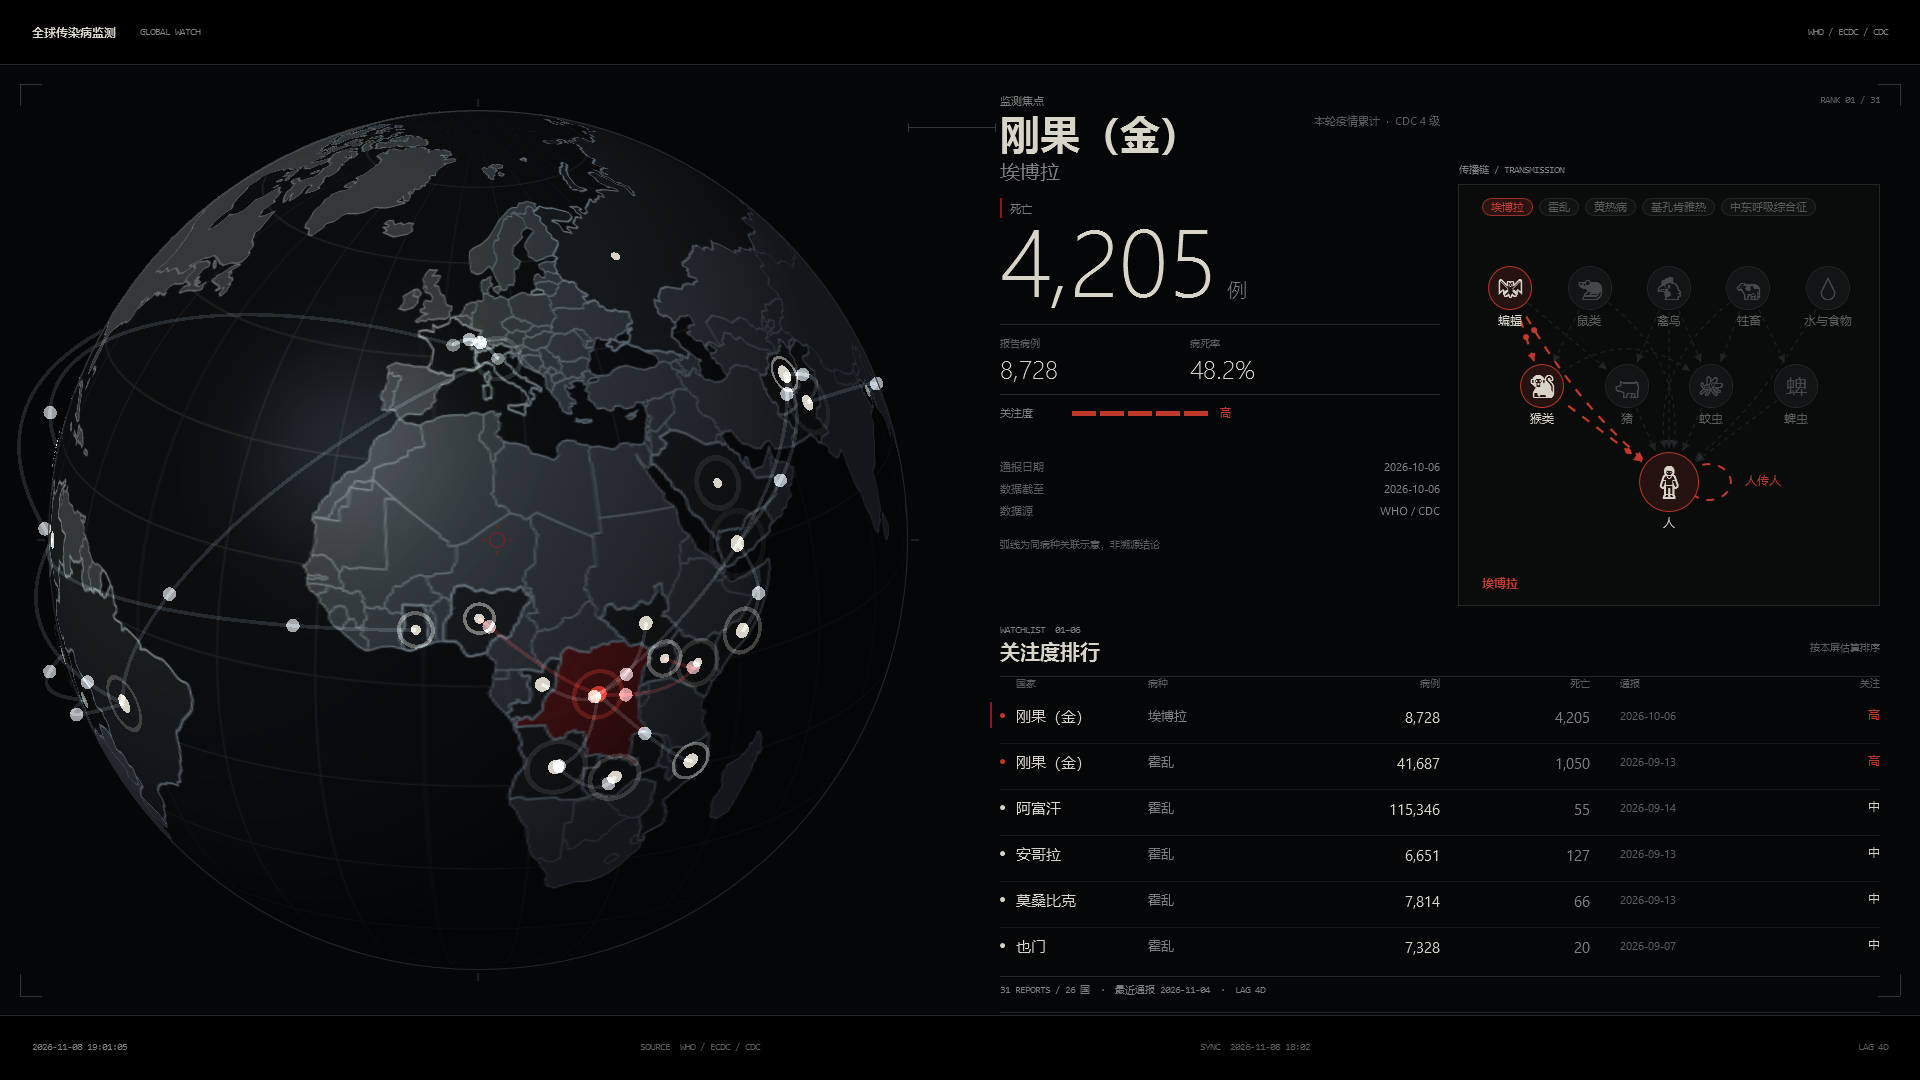
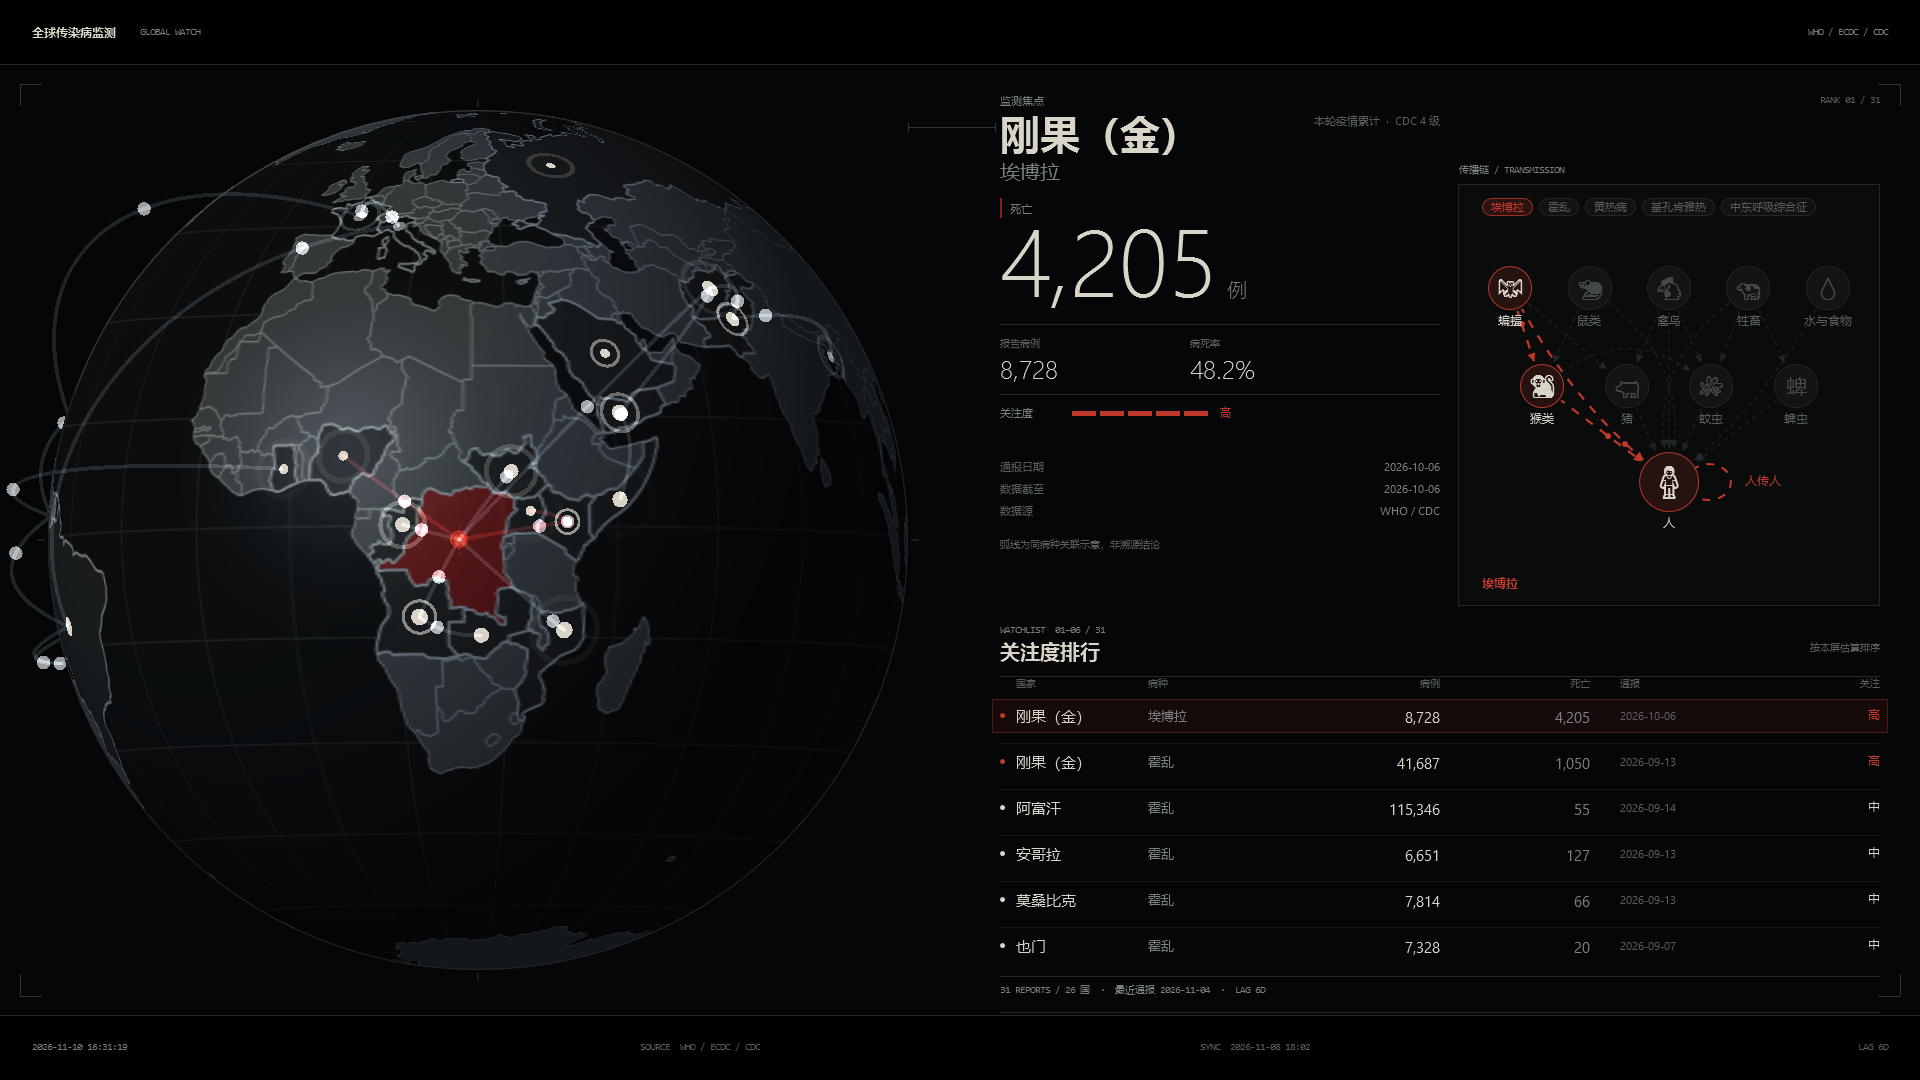
docs: single 30s preview loop and hero still

Changed region(s): [[0.0, 0.0917, 0.4688, 0.7944], [0.0625, 0.7028, 0.0938, 0.7639]]

diff --git a/README.md b/README.md
@@ -2,14 +2,9 @@
 
 ![主界面](docs/images/hero.png)
 
-![轮播](docs/images/rotation.gif)
-每 9 秒切换一条，地球缓动转向，排行跟随翻页。
+![30 秒实录](docs/images/preview.gif)
 
-![排行翻页](docs/images/ranking.gif)
-焦点走到第 6 条后整页翻页，高亮带跟着换到第 2 页首行。
-
-![传播链](docs/images/chain.gif)
-传播链随病种切换：当前病种的宿主路径在九类宿主里高亮。
+地球、关注度排行、传播链，每 9 秒轮播一条。
 
 ```powershell
 # WPF 屏保（Windows）
@@ -22,13 +17,15 @@ python -m http.server 8899 --bind 127.0.0.1 --directory web
 cd electron; npm i; npm start
 ```
 
-配色在 `WallView.cs` 的 `Th.Use()` 里改。
+配色在 `src/WallView.cs` 的 `Th.Use()` 里改。
 
-更新频率在 `feeds.json` 的 `refreshSeconds` 里改：默认 `3600`（每小时抓一次）。只想改屏上数字刷新节奏，改 `WallView.cs` 里的 `RefreshSecs`（默认 3 秒重读文件）。
+更新频率在 `feeds.json` 的 `refreshSeconds` 里改（默认 3600）。
 
-数据源接入见 [DATA.md](DATA.md)。
+数据源接入见 [DATA.md](DATA.md)，限制见 [LIMITED.md](LIMITED.md)。
 
-限制见 [LIMITED.md](LIMITED.md)。
+---
+
+The loop above runs 30 s of the live rotation. The globe, the attention ranking and the transmission chain come round once every nine seconds.
 
 ```powershell
 # Windows screensaver
@@ -41,18 +38,8 @@ python -m http.server 8899 --bind 127.0.0.1 --directory web
 cd electron; npm i; npm start
 ```
 
-The three loops above, in order:
+Colours live in `Th.Use()` in `src/WallView.cs`.
 
-One report every 9 seconds: the globe eases to the new epicentre and the ranking follows.
+Update cadence lives in `refreshSeconds` in `feeds.json` (default `3600`).
 
-When the focus reaches the sixth row the whole page turns, highlight band and all.
-
-The chain follows the disease: the current host path lights up across the nine host classes.
-
-Colours live in `Th.Use()` in `WallView.cs`.
-
-Update cadence lives in `refreshSeconds` in `feeds.json` (default `3600`, once an hour). To change only how often the screen re-reads numbers, edit `RefreshSecs` in `WallView.cs` (3 seconds by default).
-
-Data sources: [DATA.md](DATA.md).
-
-Limitations: [LIMITED.md](LIMITED.md).
+Data sources: [DATA.md](DATA.md). Limitations: [LIMITED.md](LIMITED.md).
